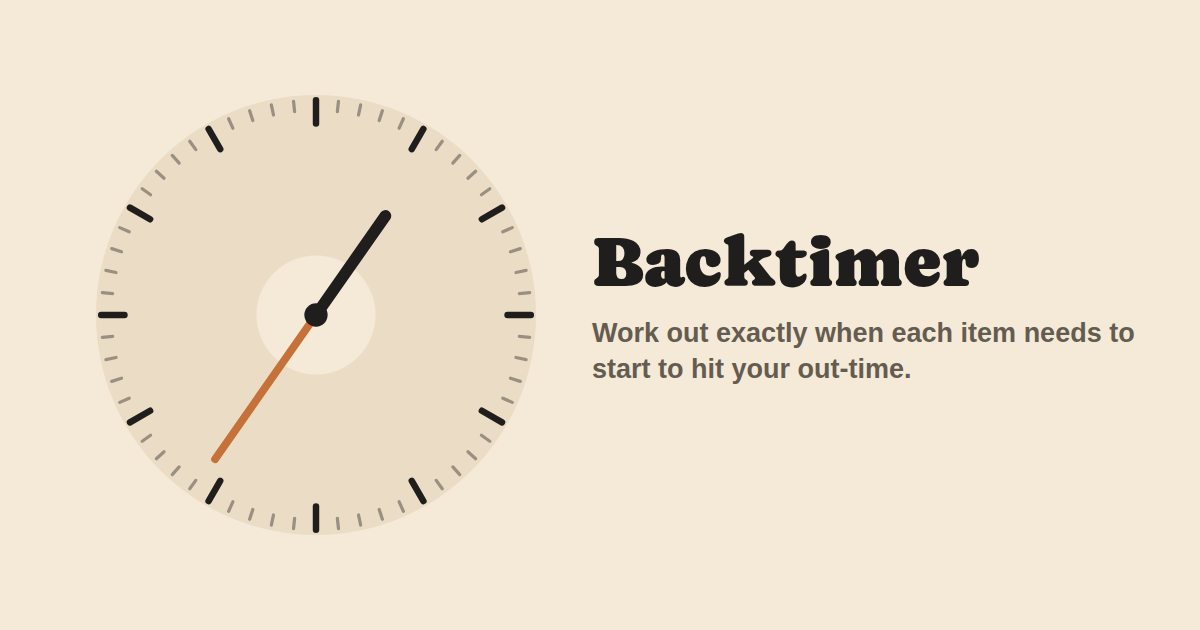
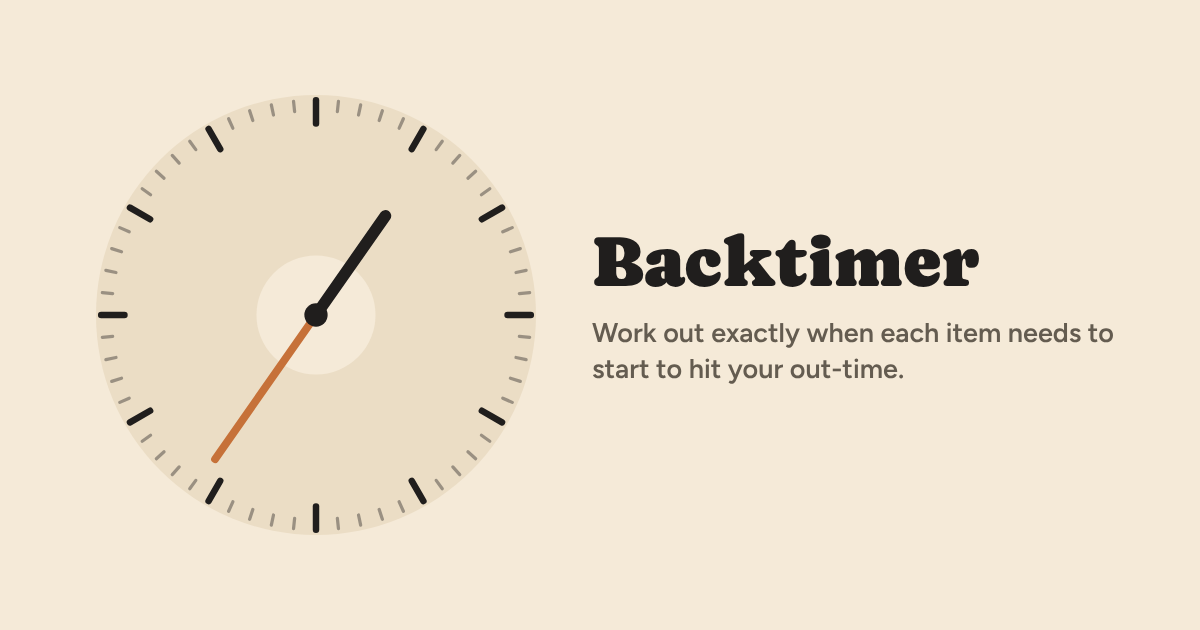
Rebuild all link-preview images from source and add one for baish.net
Clockmaker and Backtimer taglines now use the brand font; baish.net gets
its own image, title "baish.net" and description "John Baish's websites".

Claude-Session: https://claude.ai/code/session_01Hv3vzi3N2KXvuJUw6Q1r4e

Changed region(s): [[0.4933, 0.5127, 0.9558, 0.5429], [0.4933, 0.573, 0.7708, 0.6032]]

diff --git a/landing.html b/landing.html
@@ -5,7 +5,7 @@
     <link rel="icon" type="image/svg+xml" href="/favicon-baish.svg" />
     <meta name="viewport" content="width=device-width, initial-scale=1.0" />
     <title>John Baish</title>
-    <meta name="description" content="Backtimer, Clockmaker, and John's blog archive." />
+    <meta name="description" content="John Baish’s websites" />
     <!-- Root domain (baish.net) landing page — served by middleware.ts when
          the Host header is baish.net or www.baish.net (see its comments and
          CLAUDE.md's "baish.net root landing page" entry). Deliberately no
@@ -14,12 +14,14 @@
          weight. Update the three links below if any of the three
          destinations' URLs ever change. -->
     <meta property="og:type" content="website" />
-    <meta property="og:title" content="John Baish" />
-    <meta property="og:description" content="Backtimer, Clockmaker, and John's blog archive." />
+    <meta property="og:title" content="baish.net" />
+    <meta property="og:description" content="John Baish’s websites" />
+    <meta property="og:image" content="https://baish.net/og-baish.png" />
     <meta property="og:url" content="https://baish.net/" />
-    <meta name="twitter:card" content="summary" />
-    <meta name="twitter:title" content="John Baish" />
-    <meta name="twitter:description" content="Backtimer, Clockmaker, and John's blog archive." />
+    <meta name="twitter:card" content="summary_large_image" />
+    <meta name="twitter:title" content="baish.net" />
+    <meta name="twitter:description" content="John Baish’s websites" />
+    <meta name="twitter:image" content="https://baish.net/og-baish.png" />
     <script type="module" src="/src/landing.ts"></script>
     <style>
       body {

diff --git a/design/og-clockmaker.html b/design/og-clockmaker.html
@@ -14,10 +14,6 @@
   is exactly what went wrong with the first og-backtimer.png. Check the
   rendered title really is Caprasimo before using the image.
   The tagline is Figtree 600 (the app's body font), also loaded by path.
-  Note: the two existing images' taglines were rendered in whatever generic
-  sans-serif the machine had at the time (looks like Arial Bold), so they
-  can't be reproduced exactly; regenerating them from this template would
-  give a slightly different (more on-brand) tagline font.
 -->
 <html>
 <head>

diff --git a/CLAUDE.md b/CLAUDE.md
@@ -2627,6 +2627,33 @@ tagline uses Figtree 600 rather than "any sans-serif": rendering the
 original template on a different machine showed the generic sans-serif
 differs from machine to machine, so the existing two images' taglines
 (rendered in whatever sans the first machine had, Arial-like) can't be
-reproduced exactly. The title and layout reproduce pixel-for-pixel. Not
-applied to the live images; John could regenerate both from the
-template for a perfectly matched set if he ever wants.
+reproduced exactly. The title and layout reproduce pixel-for-pixel.
+
+## All three link-preview images rebuilt from `design/`; baish.net gets one (2026-10-15)
+
+John asked for this so the Flowcharter project wouldn't inherit any
+loose ends. `design/` now holds the source for each image —
+`og-clockmaker.html` (also the template for new tools), `og-backtimer.html`,
+`og-baish.html` — each loading Caprasimo 400 and Figtree 600 from
+`node_modules` by relative path.
+- **Clockmaker and Backtimer** re-rendered from those sources. Only the
+  tagline changed (now Figtree 600 instead of the old machine-dependent
+  generic sans). Pixel-checked against the previous images: drawings
+  identical; titles on the same rows with only anti-aliasing differences
+  (under 0.4% of title pixels differ noticeably).
+- **baish.net** had no preview image (text-only card, `twitter:card`
+  "summary"). New `public/og-baish.png`: the favicon's lowercase "b"
+  redrawn at 440px on a plain `#ebddc5` dial (a version with a terracotta
+  ring was tried and dropped: it read as busier than the Clockmaker image
+  and clipped at the edge), title "baish.net", tagline "John Baish’s
+  websites" (John's wording). `landing.html`: `og:title`/`twitter:title`
+  → "baish.net" (matches the image heading, as Clockmaker/Backtimer do; the
+  browser tab `<title>` stays "John Baish"), all three descriptions →
+  "John Baish’s websites", added `og:image`/`twitter:image`, `twitter:card`
+  → `summary_large_image`. Served as a plain static file on baish.net
+  (`middleware.ts` only intercepts `/`).
+- Verified: all three PNGs 1200×630, both fonts confirmed loaded at
+  render time, all three served 200 `image/png` from a built `vite
+  preview`, `landing.html`'s tags correct in the built output.
+- `HOUSE-STYLE.md` §7 now says previews are done for every existing site;
+  a new tool only needs its own.

diff --git a/HOUSE-STYLE.md b/HOUSE-STYLE.md
@@ -170,6 +170,14 @@ its own `og:title`, `og:description`, `og:image`, `og:url` and `twitter:*`
 tags; any tagline baked into the image must be updated too whenever the
 description changes.
 
+**Status (2026-10-15): done for every existing site.** Clockmaker,
+Backtimer and baish.net all have finished preview images, rebuilt from the
+`design/` sources with both brand fonts, and their tags are in place
+(baish.net: title "baish.net", description "John Baish’s websites"). A new
+tool like Flowcharter only needs its own image: copy
+`design/og-clockmaker.html`, swap the drawing and words, screenshot it,
+and add its tags. Nothing else needs fixing or remaking first.
+
 ## 8. Data and privacy
 
 - No accounts and no backend. Everything a person makes is saved
